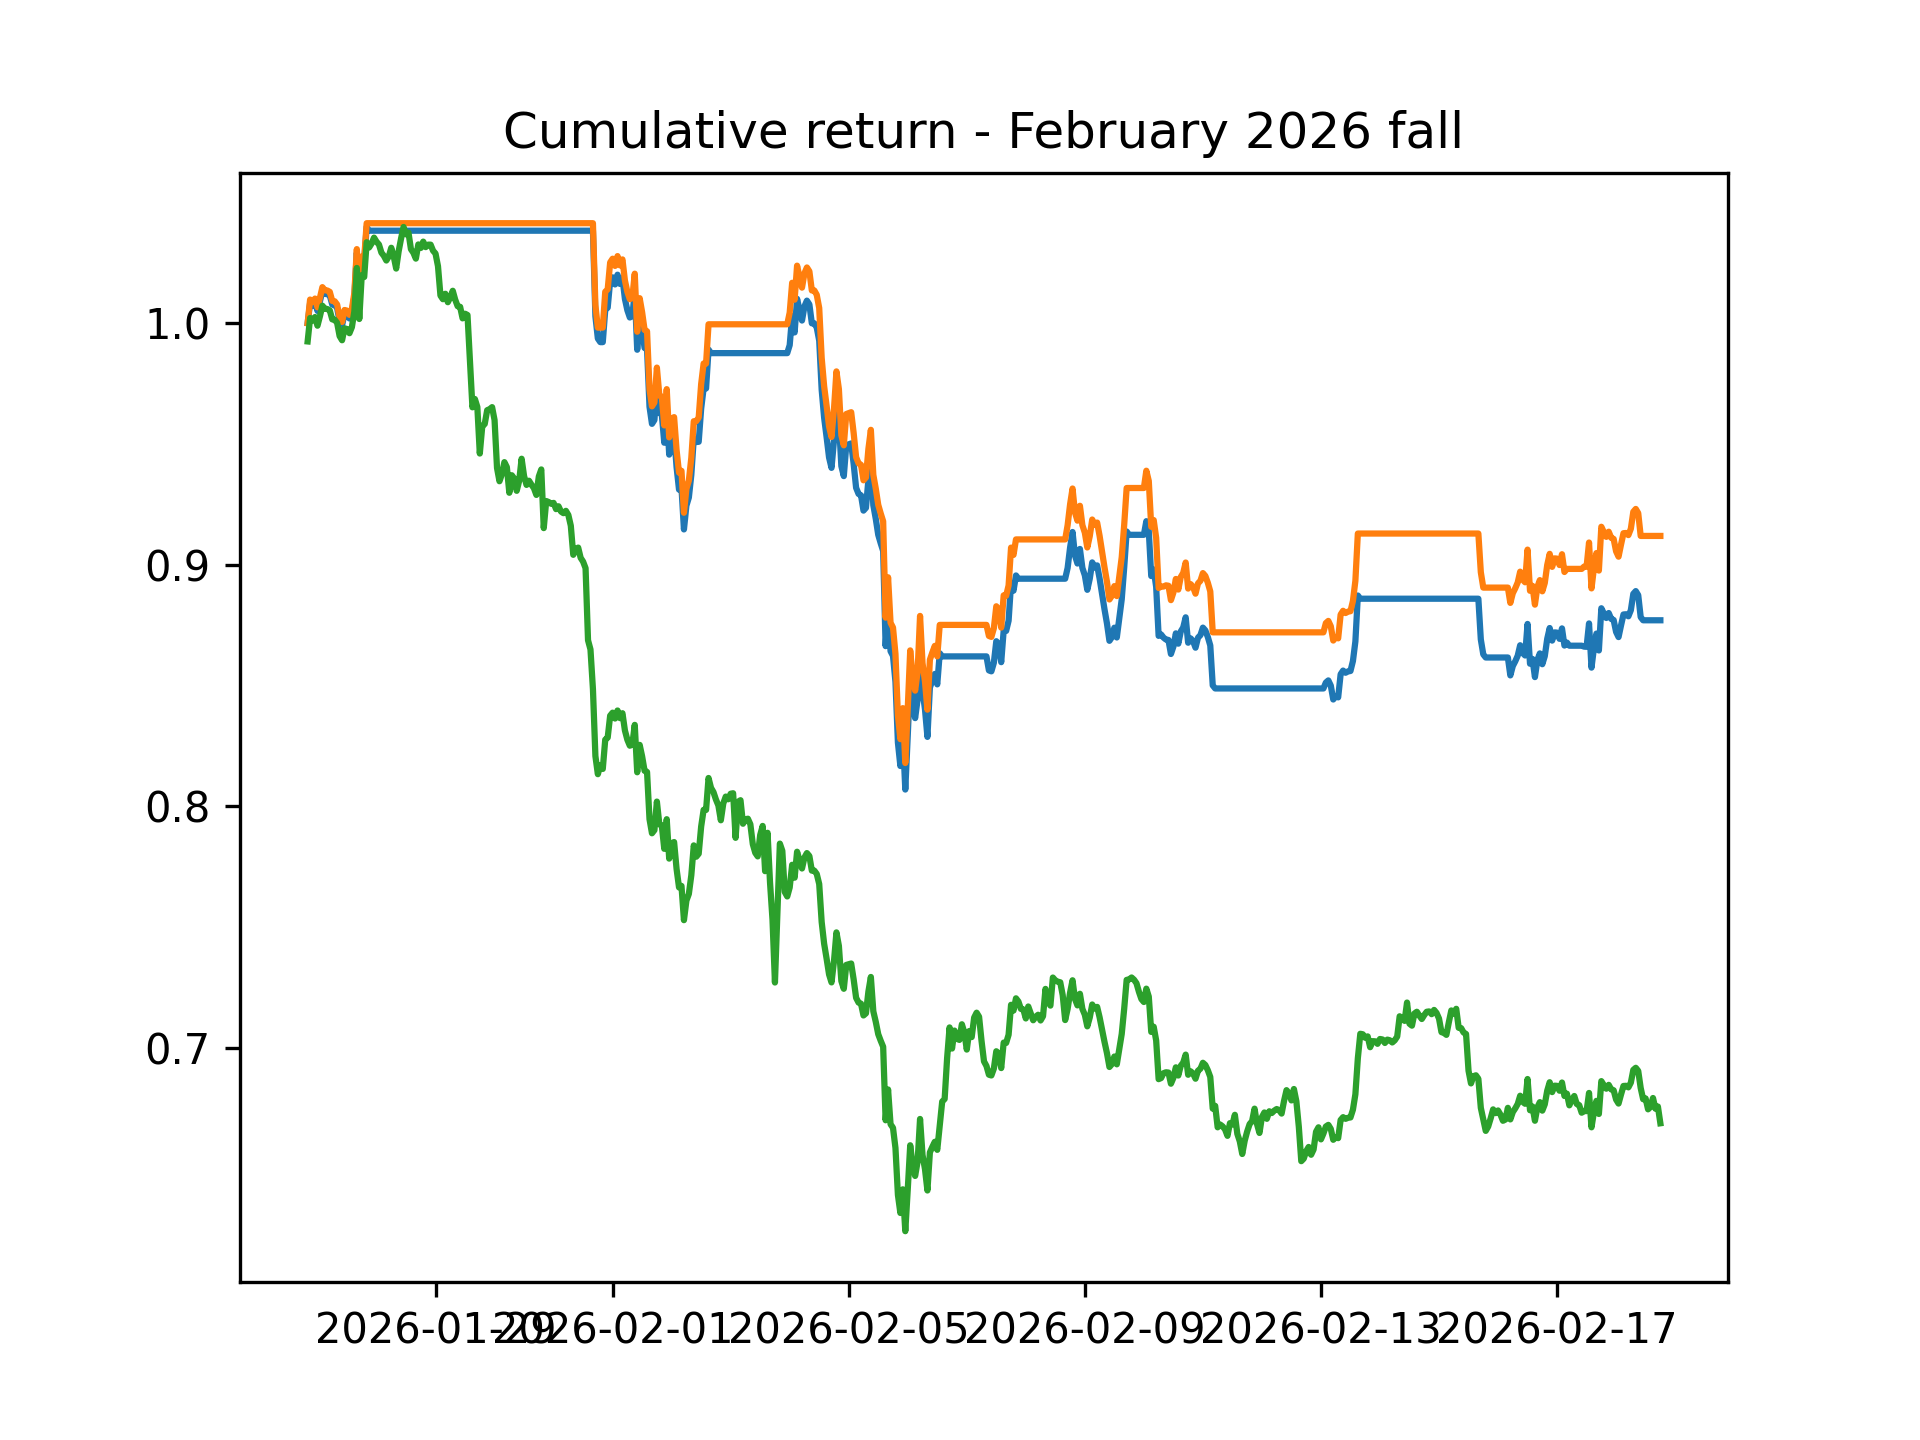
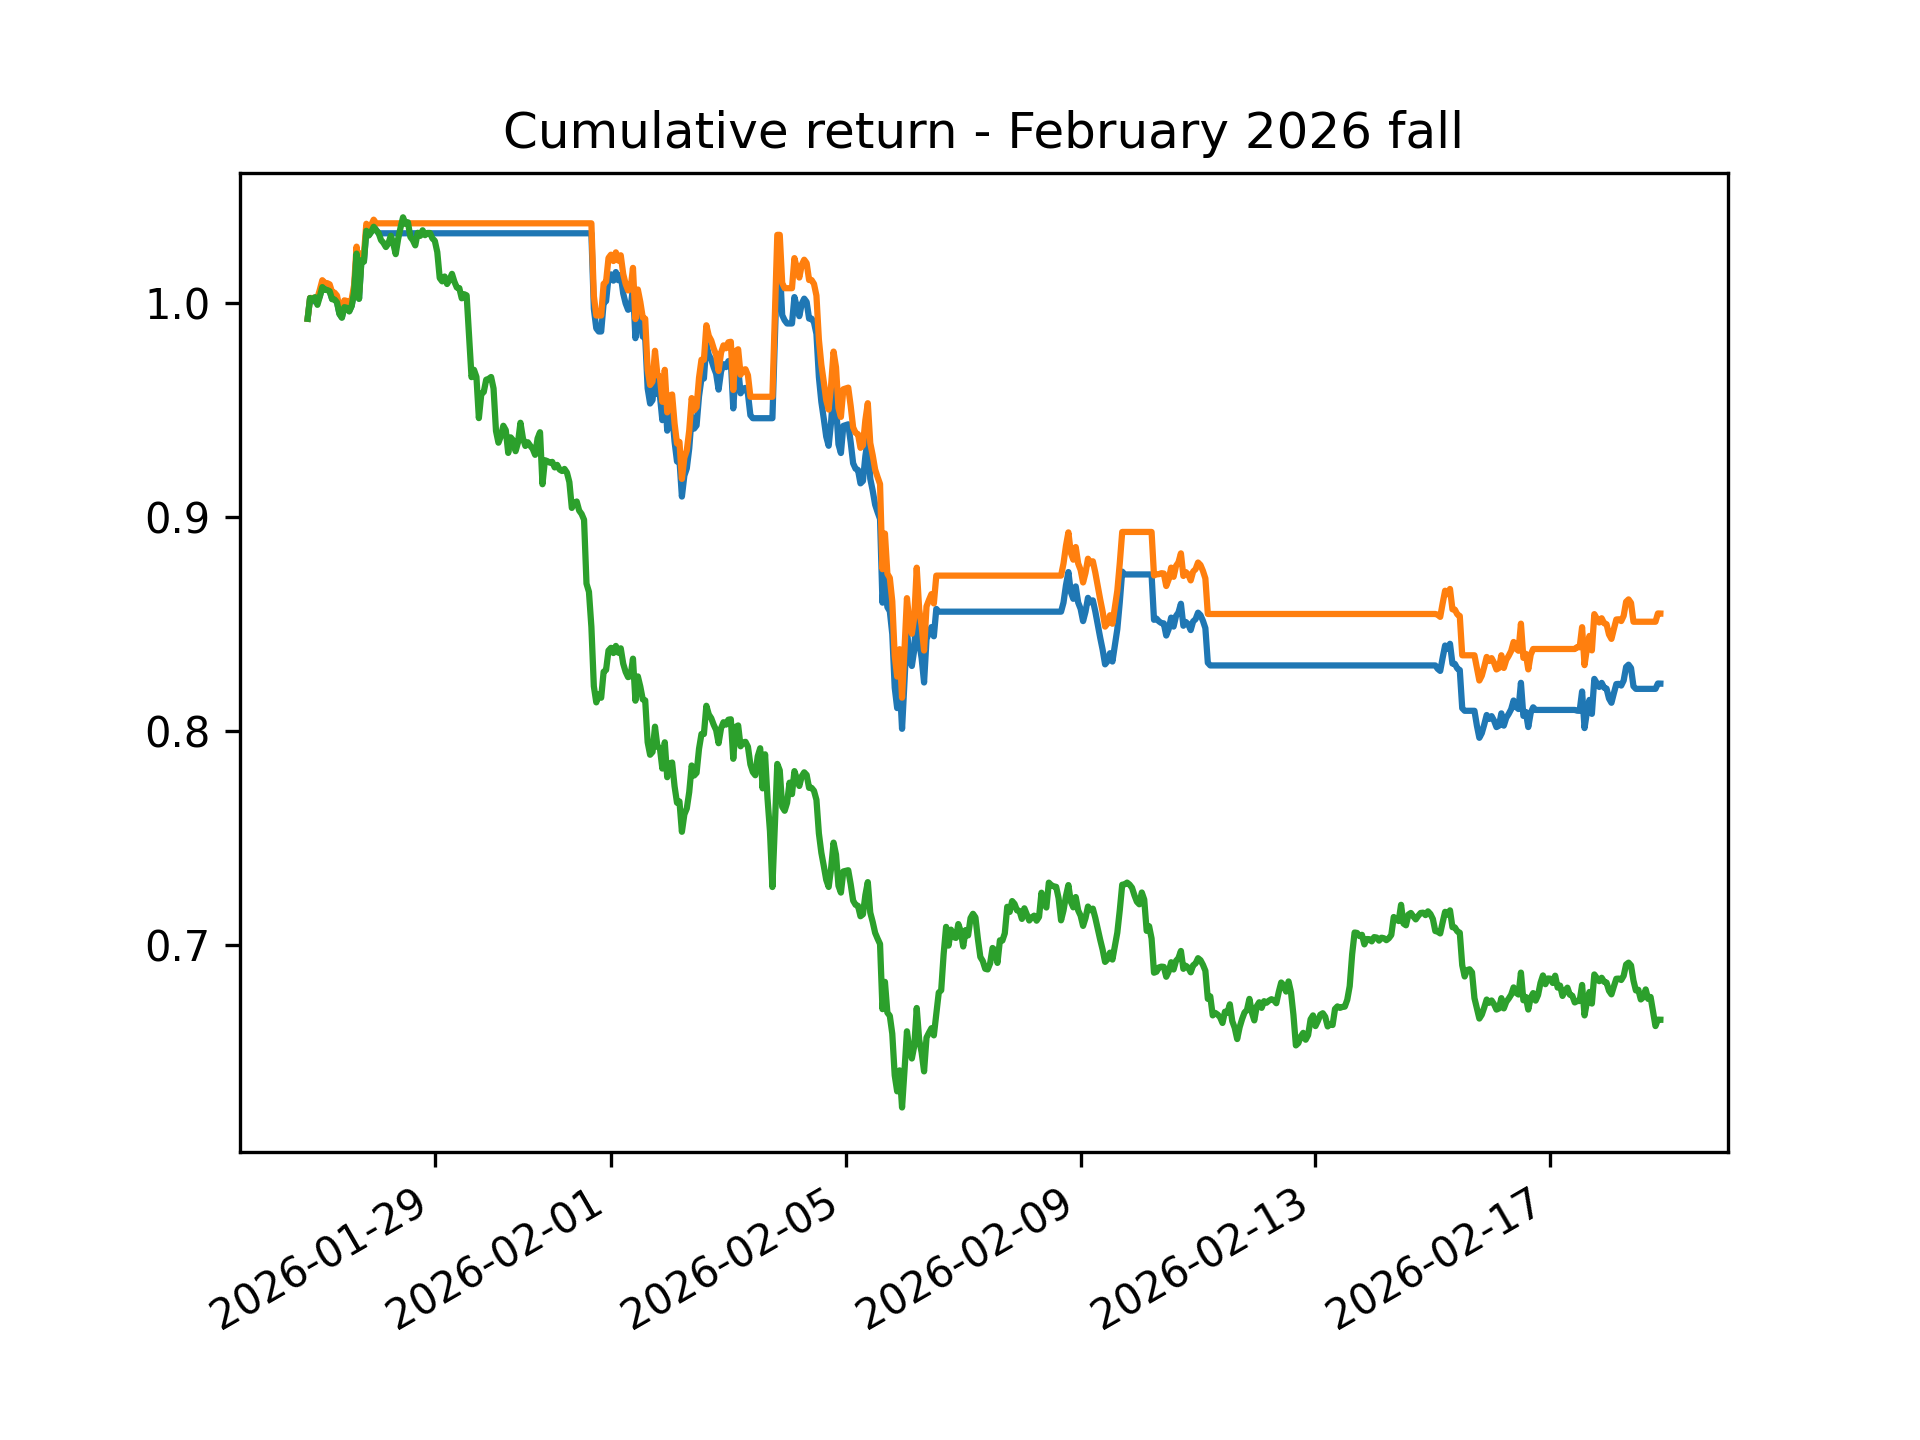
Added readme

diff --git a/ML_strategy.py b/ML_strategy.py
@@ -166,8 +166,8 @@ def cum_return_after_fees(df):
 
 X_prep = cum_return_after_fees(X_prep)
 
-#plt.plot(X_prep['perfect_cum_return_w_fees'])
-#plt.show()
+plt.plot(X_prep['perfect_cum_return_w_fees'])
+plt.show()
 
 maximal_theoretical_return = X_prep['perfect_cum_return_w_fees'][-1]
 print(maximal_theoretical_return)
@@ -262,7 +262,7 @@ X_xg_train, X_xg_test, y_xg_train, y_xg_test = train_test_split(X_xg,y_xg, test_
 model_total = XGBClassifier(
     n_estimators=100,     # Dostatek pokusů na učení
     learning_rate=0.02,   # Pomalé a precizní učení
-    max_depth=4,          # Jednoduchá, robustní pravidla
+    max_depth=3,          # Jednoduchá, robustní pravidla
     subsample=0.7,        # Trénuj jen na části dat pro každý strom
     colsample_bytree=0.7,
     scale_pos_weight=2.96, # Náhodně vybírej indikátory
@@ -302,7 +302,7 @@ for train_end in range(train_size, len(X_xg) - test_size, step):
 
     spw = (y_train == 0).sum()/(y_train == 1).sum()
 
-    model = XGBClassifier(n_estimators = 100, max_depth = 4, scale_pos_weight = spw, eval_metric = "logloss" )
+    model = XGBClassifier(n_estimators = 100, max_depth = 3, scale_pos_weight = spw, eval_metric = "logloss", random_state = 42 )
     model.fit(X_train, y_train)
     models_list.append(model)
 
@@ -361,6 +361,7 @@ plt.title('Cumulative return before and after fees')
 plt.xlabel('Date')
 plt.ylabel('Cumulative return')
 plt.legend()
+plt.gcf().autofmt_xdate()
 #plt.savefig('cum_return.png', dpi = 300)
 plt.show()
 
@@ -393,5 +394,6 @@ plt.plot(y_pred01_series['perfect_cum_return_w_fees'], label = "Cumulative retur
 plt.plot(y_pred01_series['perfect_cum_return'], label = "Cumulative return before fees" )
 plt.plot((1+y_pred01_series['hourly_return']).cumprod(), label = "Market return")
 plt.title('Cumulative return - February 2026 fall')
+plt.gcf().autofmt_xdate()
 #plt.savefig('cum_return - 02.2026.png', dpi = 300)
 plt.show()

diff --git a/README.md b/README.md
@@ -1,0 +1,42 @@
+# Ethereum Algorithmic Trading: XGBoost Strategy with Transaction Costs
+
+This project implements a short-term prediction model for Ethereum (ETH-USD) using the **XGBoost** classification algorithm. The main goal was to build a robust trading algorithm capable of performing in real market conditions, accounting for transaction fees, slippage, and regime changes.
+
+## Target & strategy definition
+
+The model is trained on an hourly dataset of the last 730 days and predicts whether it is an optimal time to enter a long position.
+
+* **Labeling:** A binary target variable was engineered using a forward-looking return calculation. It equals 1 if the future return (in a 48h time window) reaches a specific threshold (e.g., >=4%) and 0 otherwise.
+
+* **Methodology:** Model was defined using max_depth of 3 to avoid overfitting to noise in hourly ETH data. The model was evaluated using two training regimes: a static Full Training Set to establish a baseline and an Expanding Window (Walk-forward) to simulate a real production environment and adapt to the fast-paced crypto market.
+
+* **Execution:** Once a signal is triggered, the strategy manages the position using a triple-barrier exit logic: Take-Profit, Stop-Loss, or Time-Horizon expiration—whichever occurs first.
+
+## 📈 Performance & Risk mitigation
+
+* **Gross vs. Net Cumulative returns:** The "Before fees" line shows a theoretical return exceeding 140%. However, by implementing a realistic **0.15% fee per trade** (accounting for slippage), the "After fees" line reveals the actual net profitability. The strategy achieved a net return of approximately **+30%** after all costs (Sept 2024 – Jan 2026), effectively tracking the overall market return for the period.
+
+![Cumulative Returns](cum_return.png)
+
+* **Risk Mitigation:** TThe model’s value is most evident during market corrections, where it has proven to minize losses and stabilize return path when compared to the market return. This was achieved through:
+
+    1. **Probability Thresholding:** Only entries with a confidence score of **P > 0.60** were executed.
+    2. **Stable Position Logic:** A custom function that prevents "churning" (over-trading) and enforces exit rules based on stop-loss and take-profit targets.
+
+![Market Correction Detail](cum_return%20-%2002.2026.png)
+
+## 🛠 Feature Engineering & Logic
+The model's predictive power is derived from a mix of momentum, volatility, and cross-asset correlation features.
+
+![Feature Importance](feature_importance.png)
+
+* **Distance to SMA200/50:** Identified as the most significant features, indicating a reliance on mean-reversion signals.
+* **ATR_rel (Volatility):** Helps the model adjust risk thresholds based on current market noise.
+* **BTC Gap:** While Bitcoin is often a leading indicator, its relative impact on hourly Ethereum data is less consequential, likely because arbitrage between the two assets occurs on even lower timeframes, while fundamental shifts of capital happen on longer scale (daily).
+
+## 🚀 Future work to be done
+* **Flexible probability thresholding:** Due to the conservative buy threshold, the model sometimes misses out on bull periods. Instead of a fixed P > 0.60, a dynamic threshold could be implemented. In a strong uptrend (e.g., price > SMA200), lower the threshold to catch more momentum. In a downtrend, keep it at 0.60 or higher to remain defensive.
+* **Addition of new explanatory variables:** Add more variables to better identify bull and bear runs, such as volume profiles or ETH funding rates.
+
+## Caution
+While the backtest includes a 0.15% fee, real-world execution involves variable slippage and potentially network gas fees that can impact net profitability on lower timeframes.
